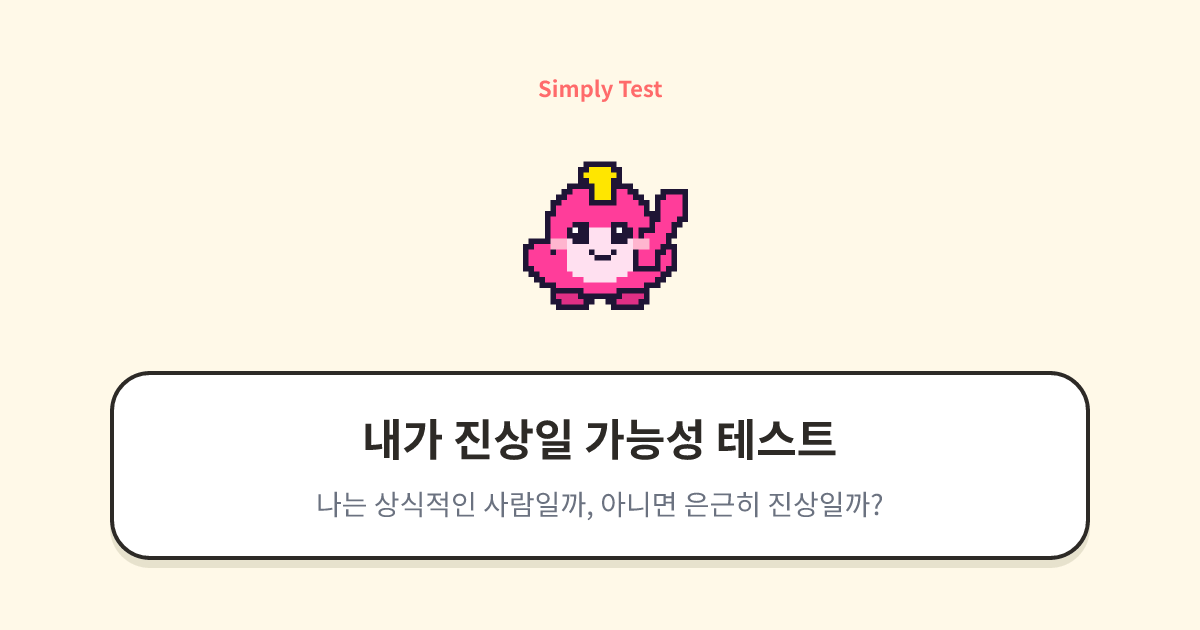
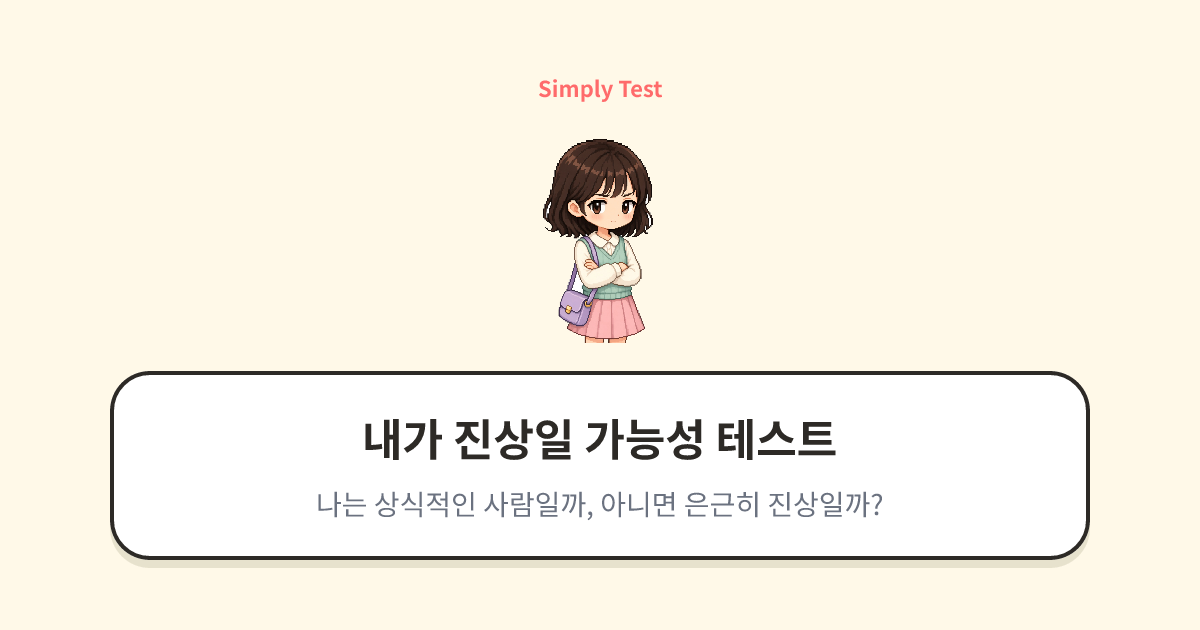
chore: 할로인 이미지 변경

Changed region(s): [[0.4317, 0.2111, 0.5858, 0.5429]]

diff --git a/drafts/halloweenMovieVillainTest.ts b/drafts/halloweenMovieVillainTest.ts
@@ -7,7 +7,7 @@ const test: TestDefinition = {
   category: 'self',
   scoringMode: 'pattern',
   resultTemplate: 'halloween',
-  thumbnailCharacter: 'main-hero',
+  thumbnailCharacter: 'halloween-villain',
   resultLabel: '할로윈 영화 빌런',
 
   questions: [
